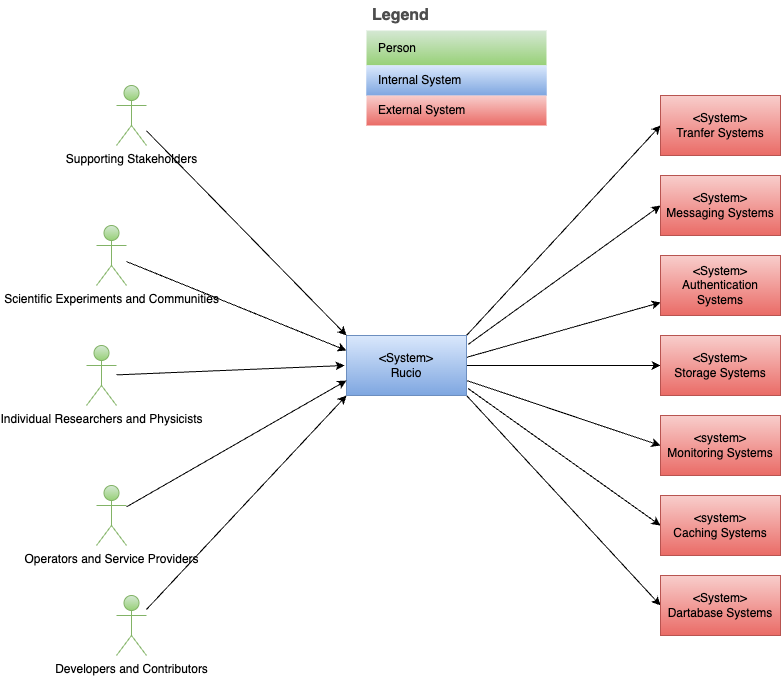
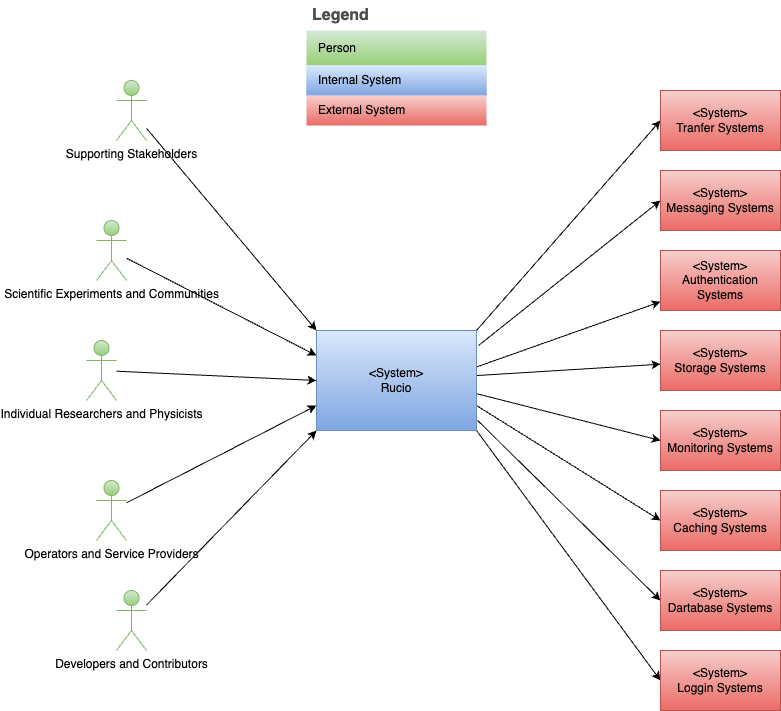
undo striketrough of logging system

diff --git a/README.md b/README.md
@@ -36,12 +36,11 @@ See [What is Rucio?](https://rucio.github.io/documentation/started/what_is_rucio
 | Authentication Systems | External System | Identity and access management services providing user authentication and authorization through various protocols and credential mechanisms |
 | Storage Systems | External System | Heterogeneous storage backends including traditional filesystems, object storage, tape archives, and cloud storage accessed through standardized protocols |
 | Monitoring Systems | External System | Analytics and observability platforms that collect, process, and visualize system performance metrics, usage statistics, and operational health data |
-| ~~Logging Systems~~ | ~~External System~~ | ~~Centralized logging infrastructure that aggregates, stores, and provides search capabilities for system events, audit trails, and troubleshooting information~~ |
+| Logging Systems | External System | Centralized logging infrastructure that aggregates, stores, and provides search capabilities for system events, audit trails, and troubleshooting information |
 | Database Systems | External System | Transactional relational database management systems that serve as the persistence layer for catalog metadata, system state, and configuration data |
 | Transfer Systems | External System | Data movement services and protocols that handle the physical transfer of files between storage endpoints with reliability, scheduling, and error handling capabilities |
 | Messaging Systems | External System      | Messaging services that enable asynchronous communication between distributed components, supporting event-driven architectures, decoupling, and reliable message delivery. |
 | Caching Systems | External System      | High-speed data stores that temporarily hold frequently accessed data to reduce latency, decrease load on primary data sources, and improve overall system performance. |
-
 
 ---
 
@@ -70,6 +69,14 @@ TODO(mgajek-cern): Add links if existing
 ![Building Block Lvl 2 View](./diagrams/Building%20Block%20Lvl%202%20View.png)
 
 See also: [Rucio Project Structure](https://rucio.github.io/documentation/developer/project_structure)
+
+#### Lvl 3
+
+##### Daemons
+
+TODO(mgajek-cern): Decomposition
+
+[For more information on Rucio daemons refer to](https://rucio.github.io/documentation/started/main_components/daemons)
 
 ### 6. Runtime view
 
